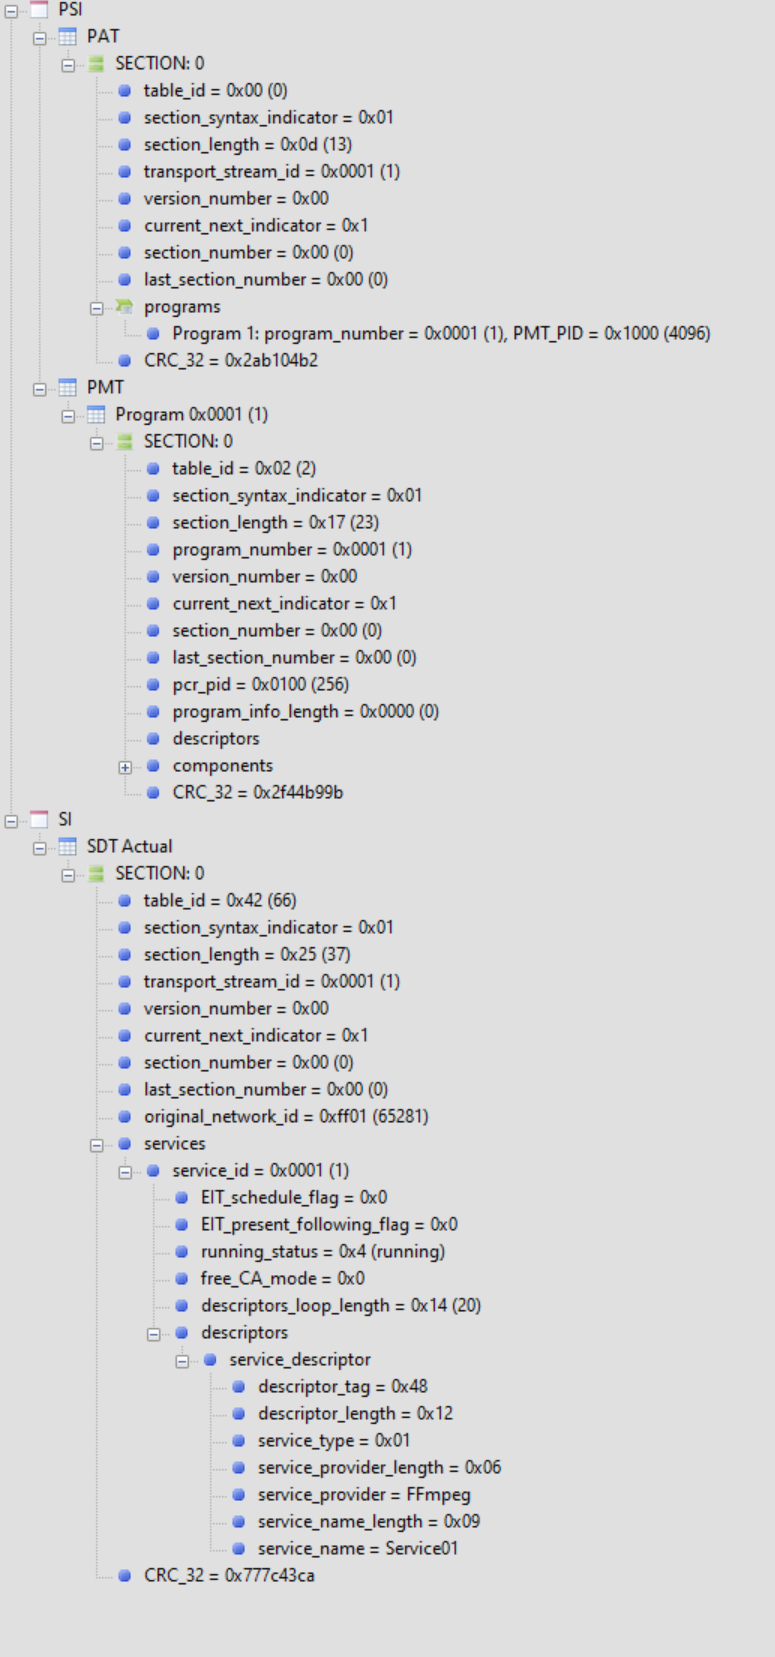
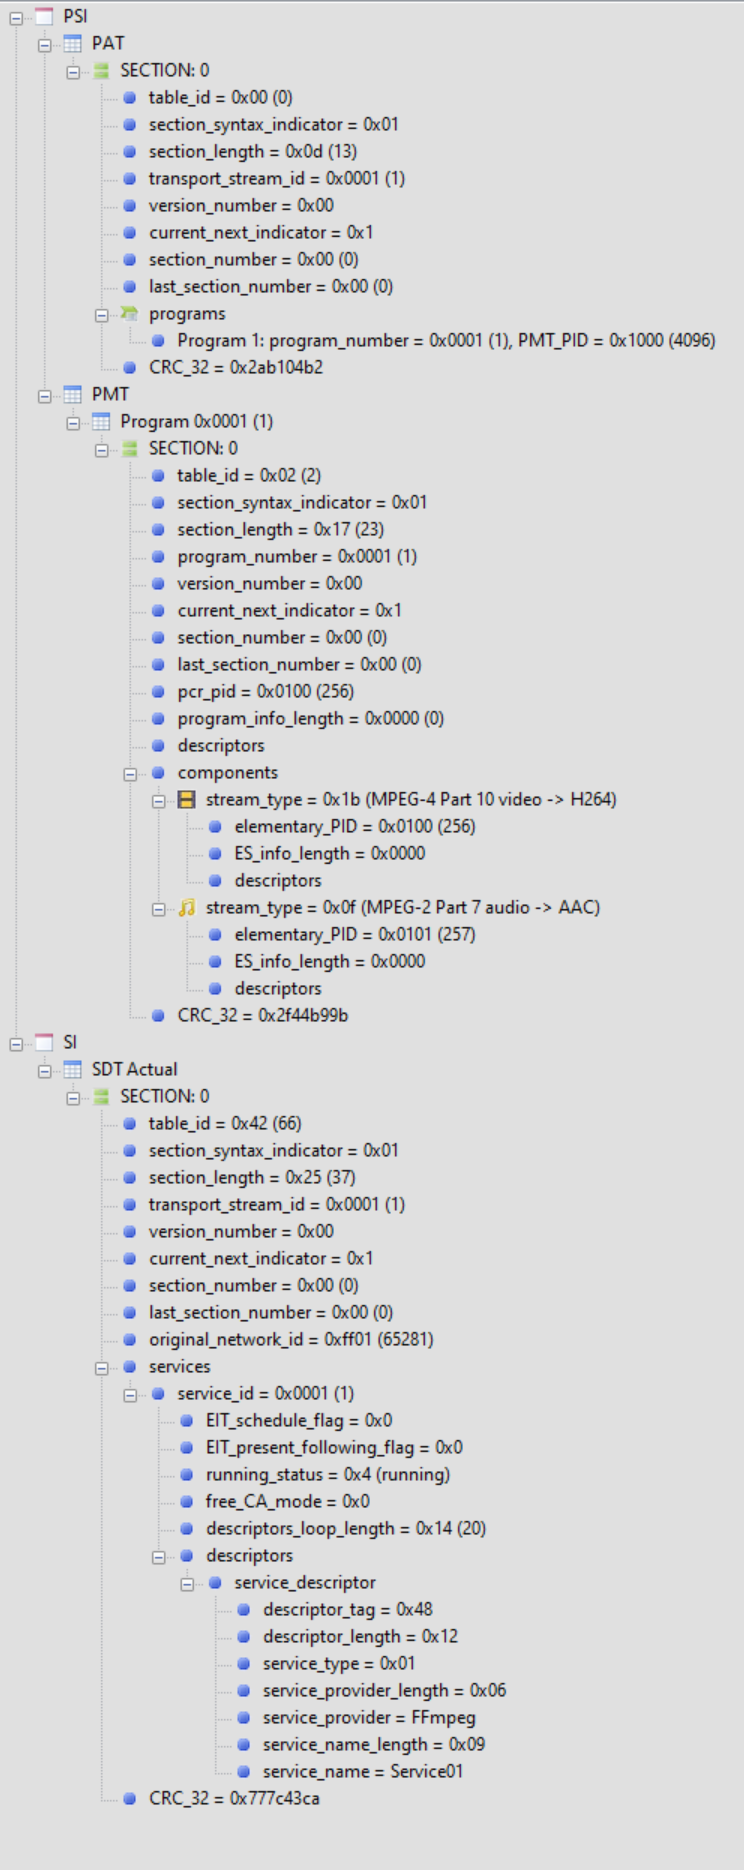
[mpegts 结构图url]

Changed region(s): [[0.0, 0.0, 0.9583, 0.9849], [0.7728, 0.4001, 0.8347, 0.4309], [0.7419, 0.4617, 0.8038, 0.4925]]

diff --git a/media/mpegts/README.md b/media/mpegts/README.md
@@ -1,4 +1,4 @@
 # MPEG-TS
 
 
-![MPEG-ts完整结构图]()
+![MPEG-ts完整结构图](https://github.com/chensongpoixs/cmedia_server/blob/master/media/mpegts/mpegts.png?raw=true)
